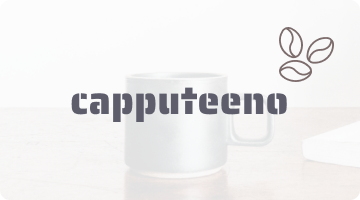
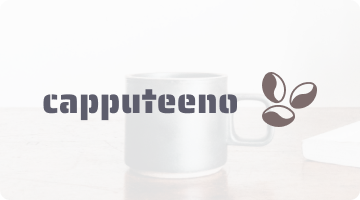
include caputeeno project

Changed region(s): [[0.1222, 0.12, 0.9472, 0.66]]

diff --git a/src/data/projects.ts b/src/data/projects.ts
@@ -98,34 +98,32 @@ export const projectsList = [
             "tailwind",
         ]
     },
-    // {
-    //     title: "Caputeeno",
-    //     description: [
-    //         "Um e-commerce para venda de canecas e camisetas",
-    //         "A ideia do projeto é trabalhar as funcionalidades principais de um e-commerce, como filtrar por categorias, buscar itens, adicionar e retirar itens do carrinho e finalizar a compra. ",
-    //         "Utiliza uma API GraphQL como backend e também o localhost para gerenciamento do carrinho. ",
-    //         "Obs: ainda em construção"
-    //     ],
-    //     descriptionEN:[
-    //         "An e-commerce to sell coffee mugs and shirts.",
-    //         "The idea of the project is to work on the main functionalities of an e-commerce, such as filtering by categories, searching for items, adding and removing items from the cart and completing the purchase.",
-    //         "Uses a GraphQL API as a backend and also localhost for cart management.",
-    //         "Ps: under maintenance"
-    //     ],
-    //     image: "/caputeeno-thumb.png",
-    //     imgAlt: "thumbnail do projeto caputeeno",
-    //     screen:"/spacetravelling-screen.png",
-    //     screenAlt:"Screenshot do site caputeeno",
-    //     link: "https://caputeeno.vercel.app/",
-    //     githubLink: "https://github.com/Guilhermecheng/caputeeno",
-    //     stack: [
-    //         "react",
-    //         "typescript",
-    //         "next",
-    //         "styled_components",
-    //         "graphql",
-    //     ]
-    // },
+    {
+        title: "Caputeeno",
+        description: [
+            "Um e-commerce para venda de canecas e camisetas",
+            "A ideia do projeto é trabalhar as funcionalidades principais de um e-commerce, como filtrar por categorias, buscar itens, adicionar e retirar itens do carrinho e finalizar a compra. ",
+            "Utiliza uma API GraphQL como backend e também o localhost para gerenciamento do carrinho. ",
+        ],
+        descriptionEN:[
+            "An e-commerce to sell coffee mugs and shirts.",
+            "The idea of the project is to work on the main functionalities of an e-commerce, such as filtering by categories, searching for items, adding and removing items from the cart and completing the purchase.",
+            "Uses a GraphQL API as a backend and also localhost for cart management.",
+        ],
+        image: "/caputeeno-thumb.png",
+        imgAlt: "thumbnail do projeto caputeeno",
+        screen:"/caputeeno-screen.png",
+        screenAlt:"Screenshot do site caputeeno",
+        link: "https://caputeeno.vercel.app/",
+        githubLink: "https://github.com/Guilhermecheng/caputeeno",
+        stack: [
+            "react",
+            "typescript",
+            "next",
+            "styled_components",
+            "graphql",
+        ]
+    },
     {
         title: "Todo",
         description: [
